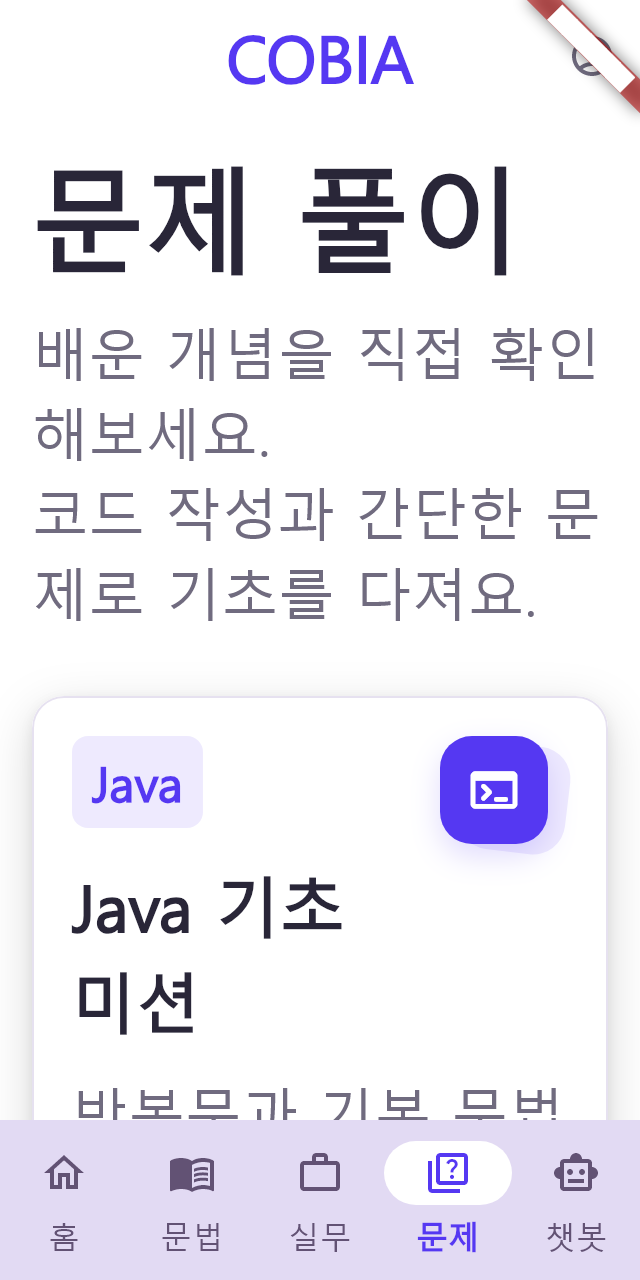
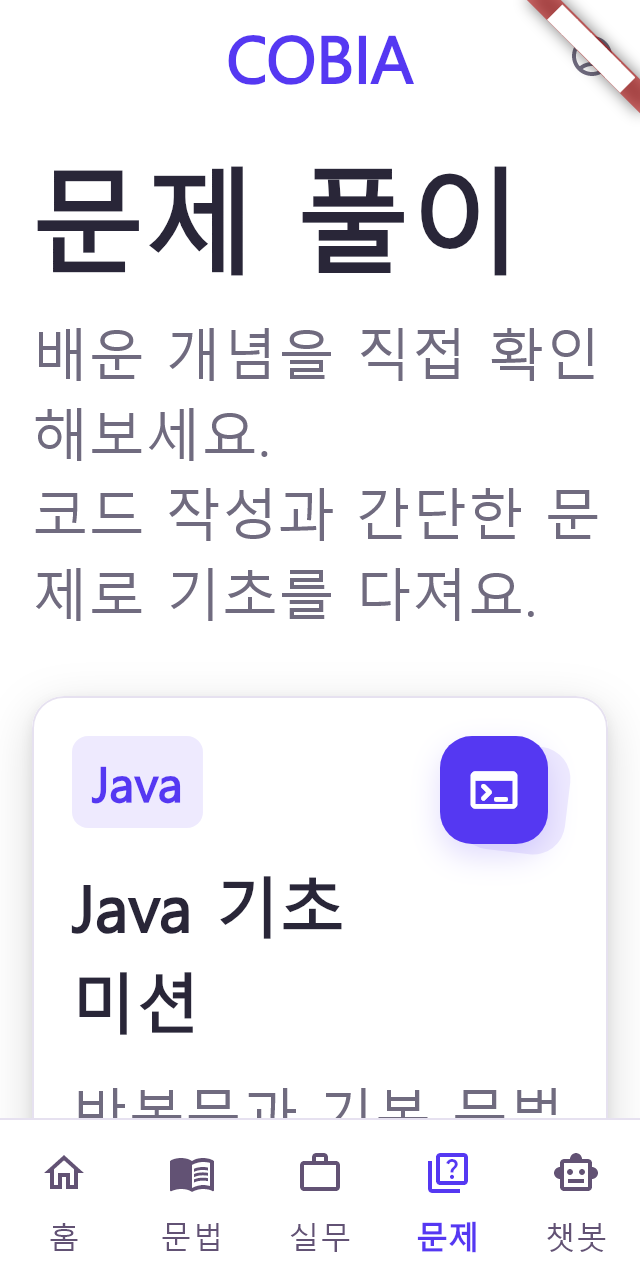
style: 흰색 하단바 구분선 및 선택 메뉴 색상 적용

Changed region(s): [[0.0, 0.875, 1.0, 1.0]]

diff --git a/lib/app/widgets/app_bottom_navigation.dart b/lib/app/widgets/app_bottom_navigation.dart
@@ -2,6 +2,7 @@ import 'package:flutter/material.dart';
 import 'package:go_router/go_router.dart';
 
 import '../router/app_router.dart';
+import '../app_ui_tokens.dart';
 
 class AppBottomNavigation extends StatelessWidget {
   const AppBottomNavigation({super.key, required this.selectedIndex});
@@ -10,46 +11,51 @@ class AppBottomNavigation extends StatelessWidget {
 
   @override
   Widget build(BuildContext context) {
-    return NavigationBar(
-      selectedIndex: selectedIndex,
-      onDestinationSelected: (index) {
-        if (index == selectedIndex) return;
-        switch (index) {
-          case 0:
-            context.goNamed(AppRouteNames.home);
-          case 1:
-            context.goNamed(AppRouteNames.grammar);
-          case 2:
-            context.goNamed(AppRouteNames.practical);
-          case 3:
-            context.goNamed(AppRouteNames.problems);
-          case 4:
-            context.pushNamed(AppRouteNames.chat);
-        }
-      },
-      destinations: const [
-        NavigationDestination(
-          icon: Icon(Icons.home_outlined),
-          selectedIcon: Icon(Icons.home),
-          label: '홈',
-        ),
-        NavigationDestination(
-          icon: Icon(Icons.menu_book_outlined),
-          selectedIcon: Icon(Icons.menu_book),
-          label: '문법',
-        ),
-        NavigationDestination(
-          icon: Icon(Icons.work_outline),
-          selectedIcon: Icon(Icons.work),
-          label: '실무',
-        ),
-        NavigationDestination(icon: Icon(Icons.quiz_outlined), label: '문제'),
-        NavigationDestination(
-          icon: Icon(Icons.smart_toy_outlined),
-          selectedIcon: Icon(Icons.smart_toy),
-          label: '챗봇',
-        ),
-      ],
+    return Container(
+      decoration: const BoxDecoration(
+        border: Border(top: BorderSide(color: AppColors.border)),
+      ),
+      child: NavigationBar(
+        selectedIndex: selectedIndex,
+        onDestinationSelected: (index) {
+          if (index == selectedIndex) return;
+          switch (index) {
+            case 0:
+              context.goNamed(AppRouteNames.home);
+            case 1:
+              context.goNamed(AppRouteNames.grammar);
+            case 2:
+              context.goNamed(AppRouteNames.practical);
+            case 3:
+              context.goNamed(AppRouteNames.problems);
+            case 4:
+              context.pushNamed(AppRouteNames.chat);
+          }
+        },
+        destinations: const [
+          NavigationDestination(
+            icon: Icon(Icons.home_outlined),
+            selectedIcon: Icon(Icons.home),
+            label: '홈',
+          ),
+          NavigationDestination(
+            icon: Icon(Icons.menu_book_outlined),
+            selectedIcon: Icon(Icons.menu_book),
+            label: '문법',
+          ),
+          NavigationDestination(
+            icon: Icon(Icons.work_outline),
+            selectedIcon: Icon(Icons.work),
+            label: '실무',
+          ),
+          NavigationDestination(icon: Icon(Icons.quiz_outlined), label: '문제'),
+          NavigationDestination(
+            icon: Icon(Icons.smart_toy_outlined),
+            selectedIcon: Icon(Icons.smart_toy),
+            label: '챗봇',
+          ),
+        ],
+      ),
     );
   }
 }

diff --git a/lib/app/app_ui_tokens.dart b/lib/app/app_ui_tokens.dart
@@ -8,7 +8,7 @@ abstract final class AppColors {
   static const background = Color(0xFFF9F8FF);
   static const surface = Colors.white;
   static const surfaceSubtle = Color(0xFFF5F2FC);
-  static const navigationBackground = Color(0xFFDCCFFF);
+  static const navigationBackground = Colors.white;
   static const navigationForeground = Color(0xFF625274);
   static const textPrimary = Color(0xFF292638);
   static const textSecondary = Color(0xFF706B7F);
@@ -200,7 +200,7 @@ final appUiTheme = ThemeData(
     backgroundColor: AppColors.navigationBackground,
     surfaceTintColor: Colors.transparent,
     elevation: 0,
-    indicatorColor: AppColors.surface,
+    indicatorColor: Colors.transparent,
     iconTheme: WidgetStateProperty.resolveWith(
       (states) => IconThemeData(
         color: states.contains(WidgetState.selected)
